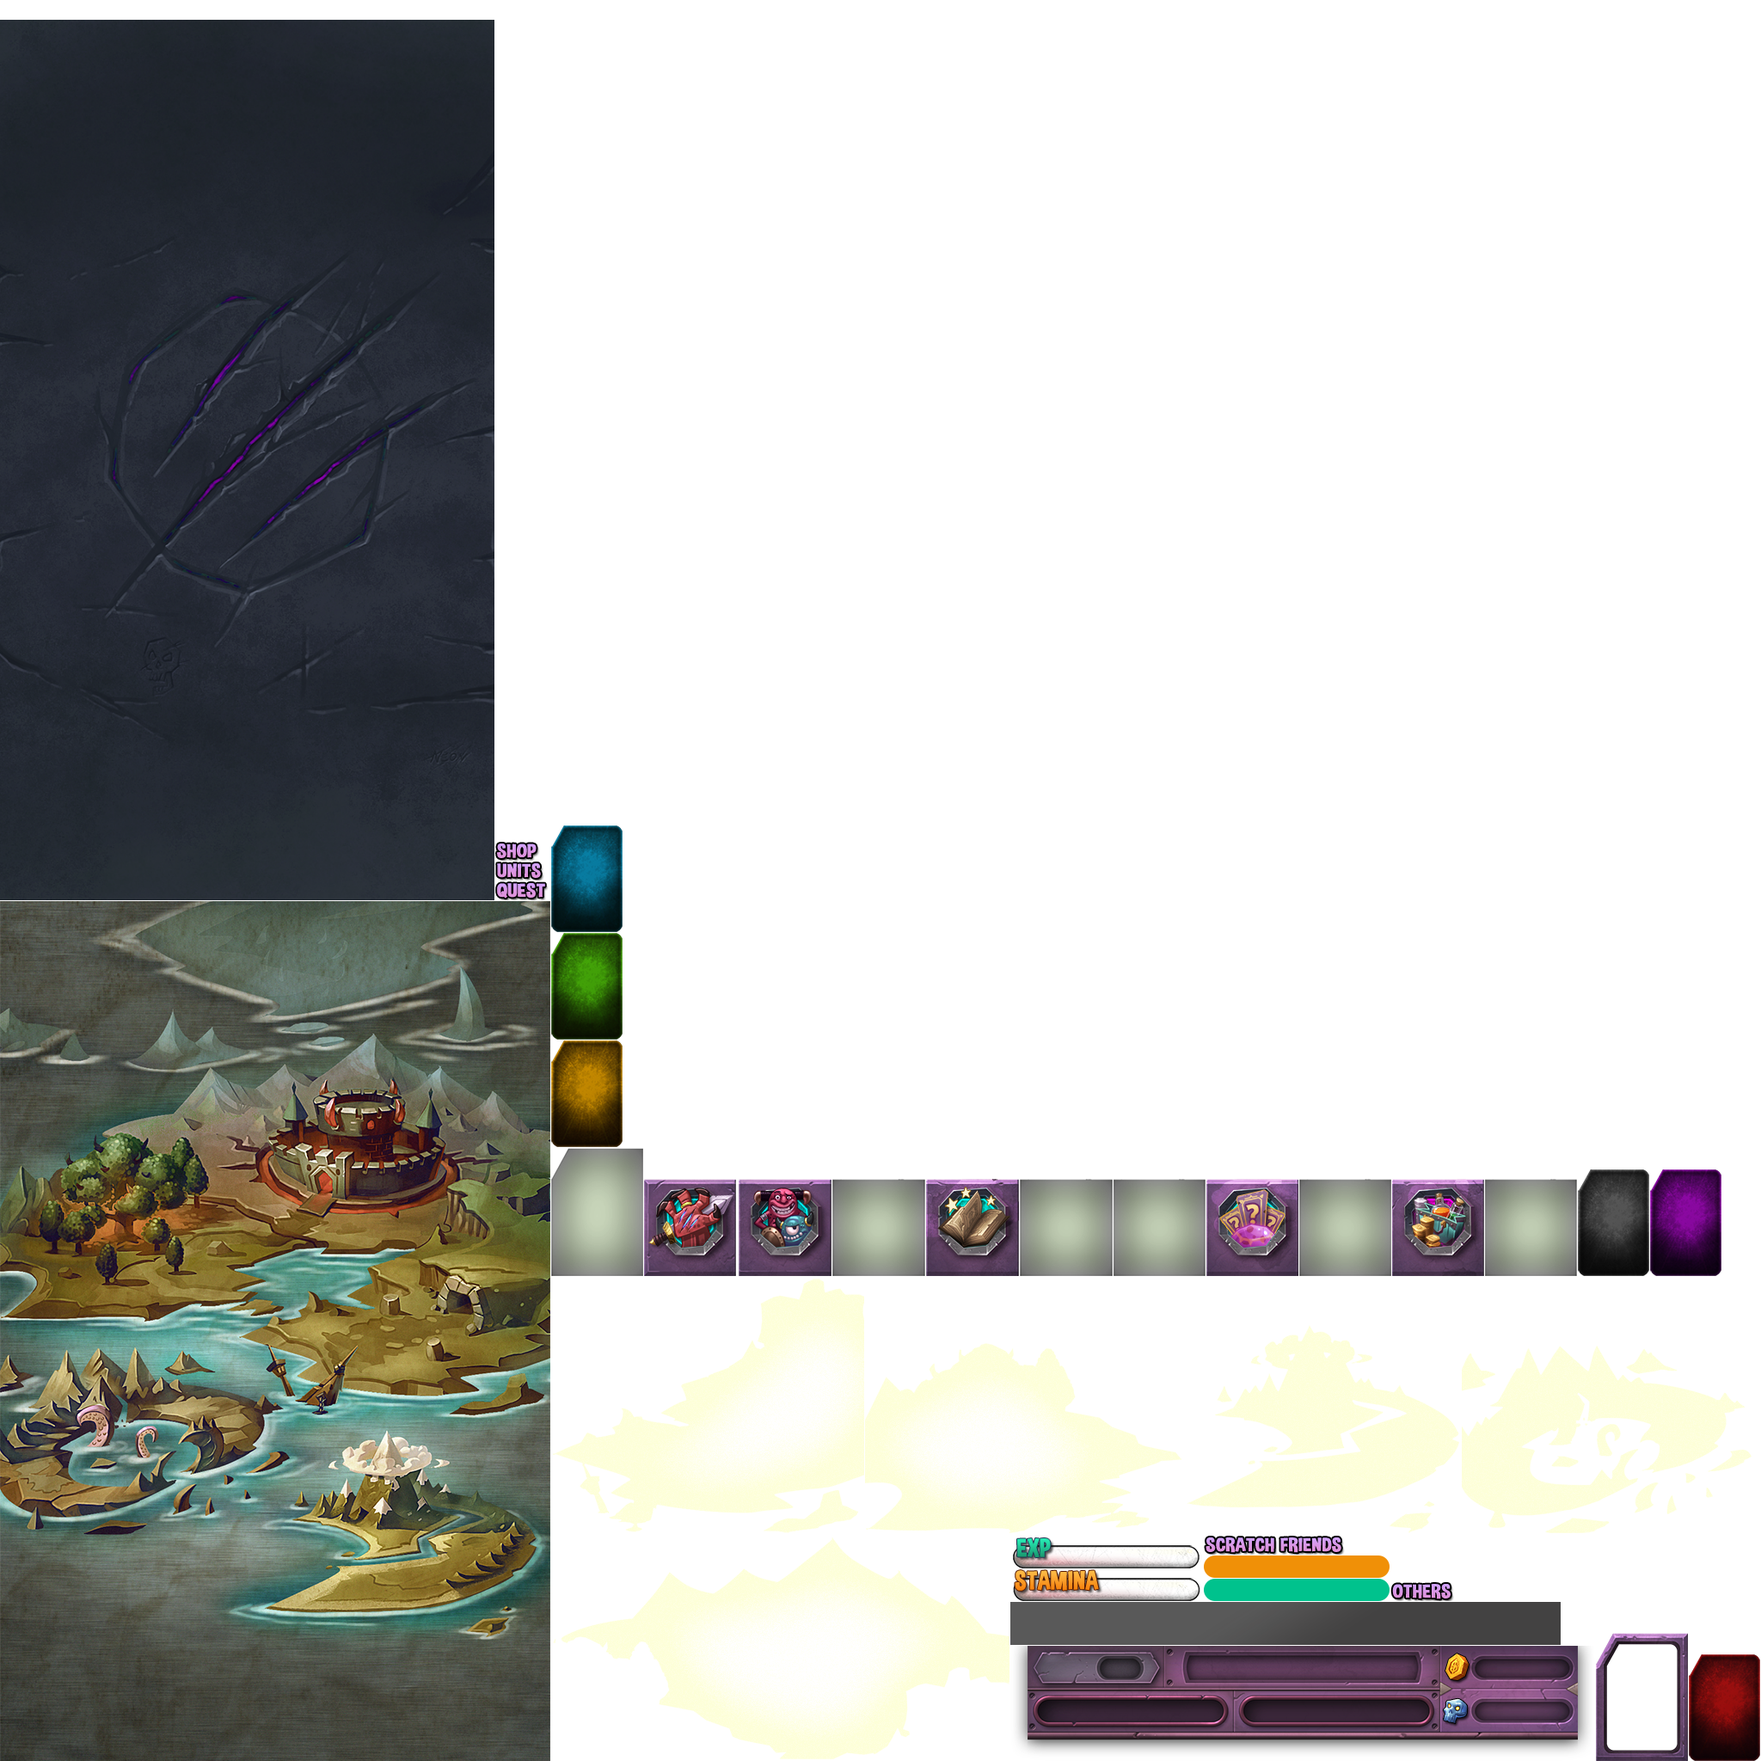
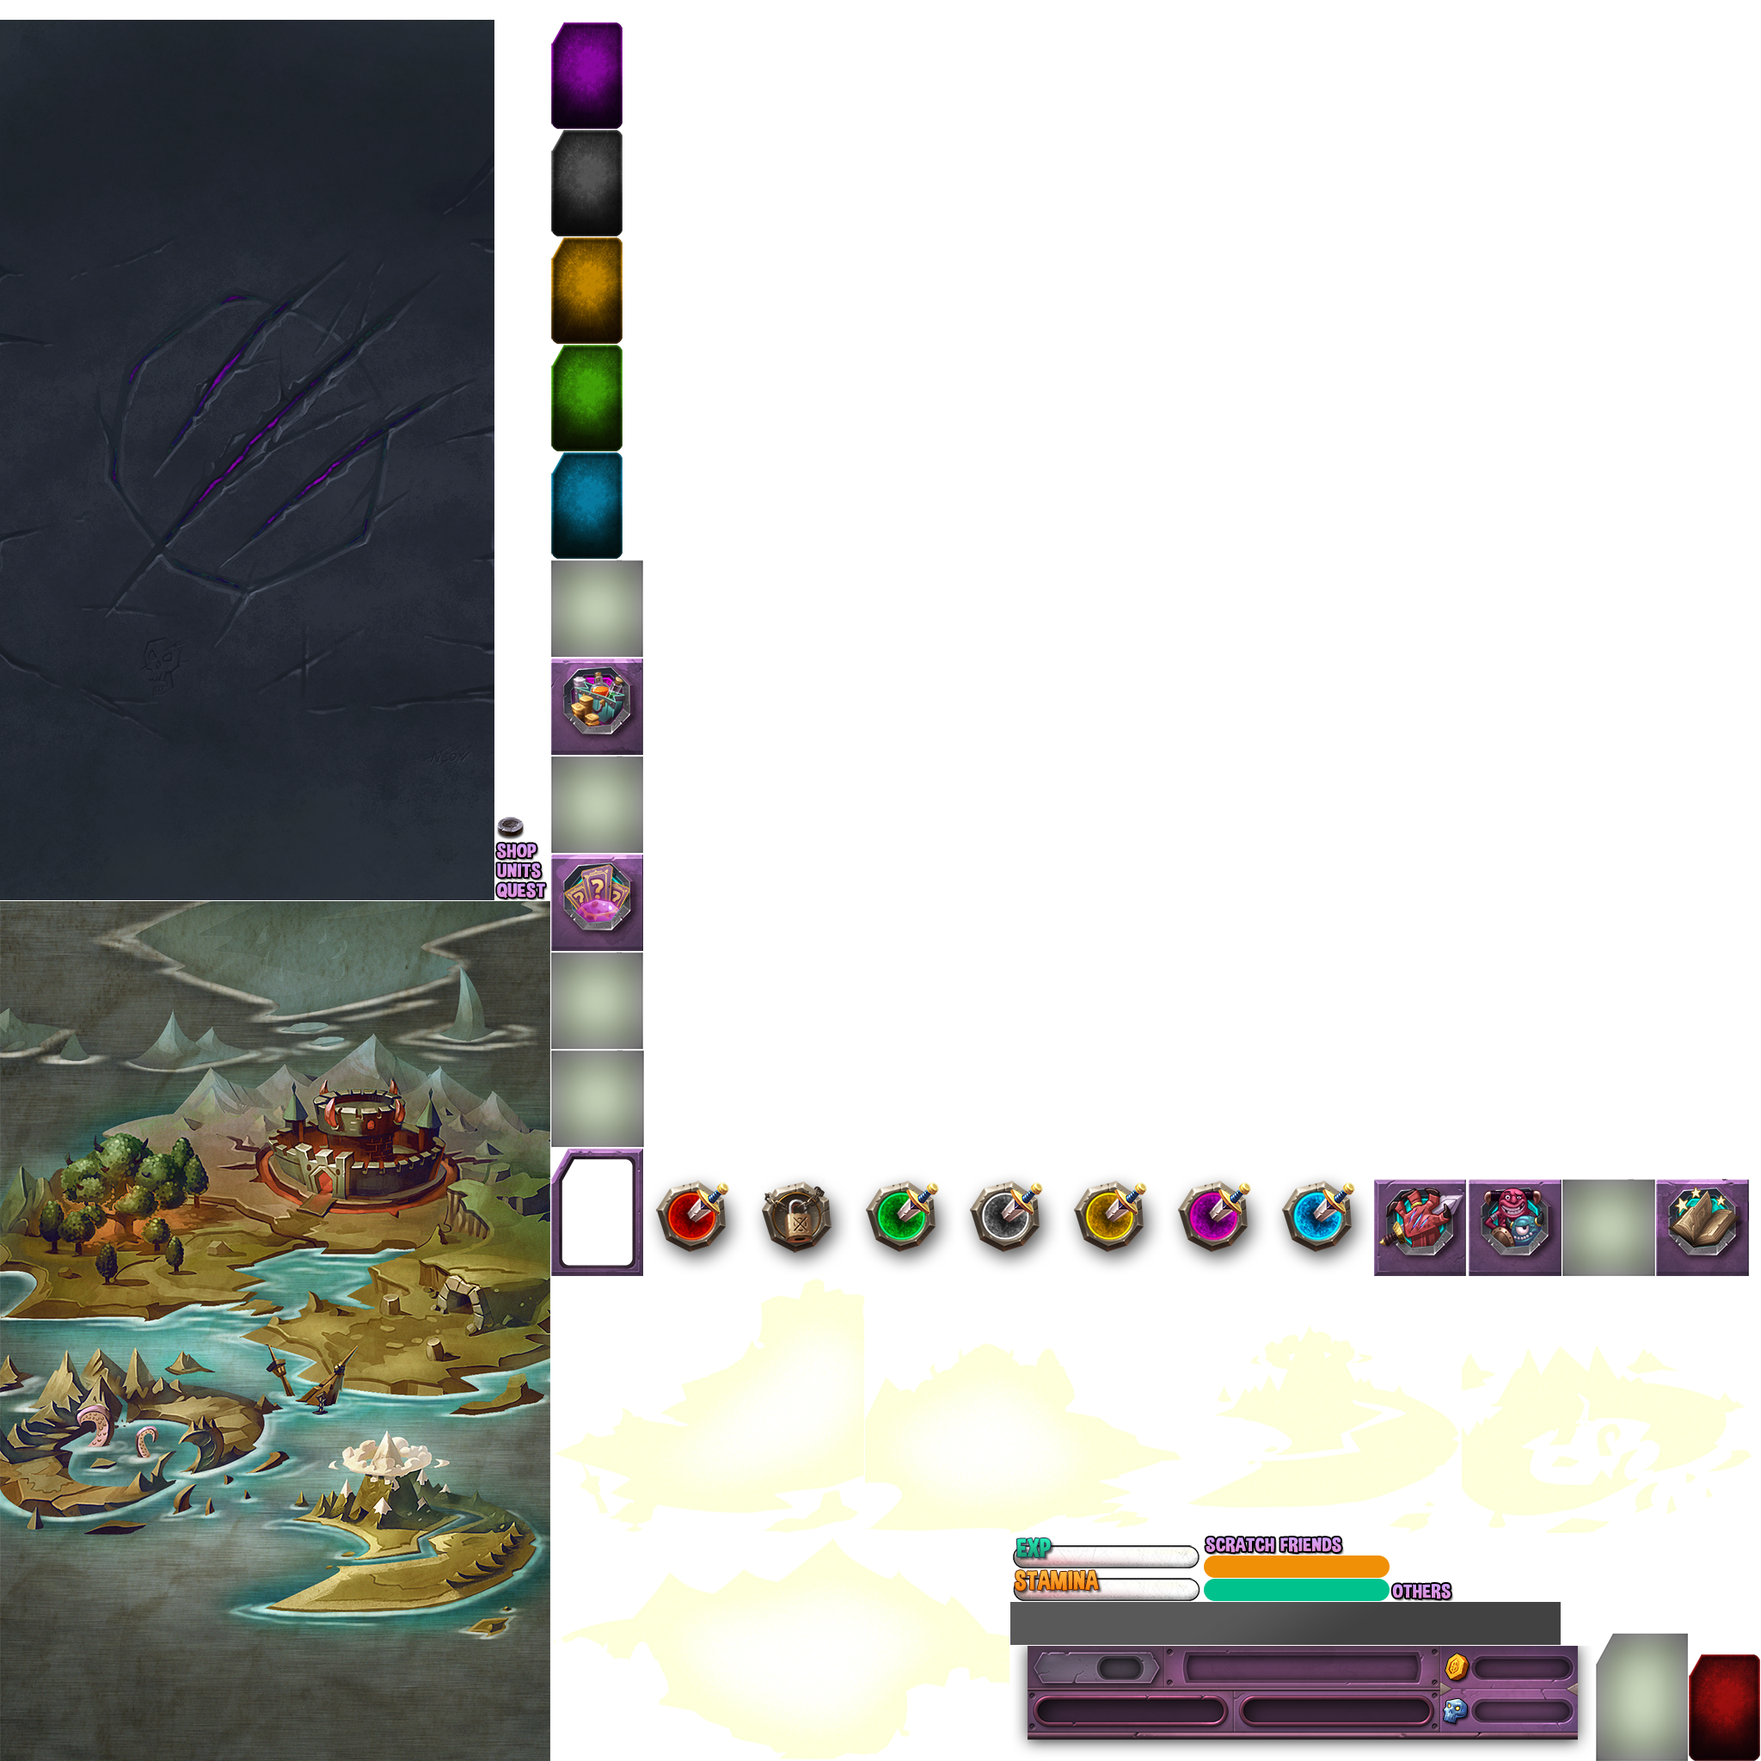
no message

Changed region(s): [[0.2812, 0.0, 1.0, 0.75], [0.9062, 0.9062, 0.9688, 1.0]]

diff --git a/Assets/Scripts/View/UI/QuestSelect/QuestSelectView.cs b/Assets/Scripts/View/UI/QuestSelect/QuestSelectView.cs
@@ -409,27 +409,27 @@ public class QuestSelectView : UIComponentUnity{
 
 	//--------------------------------New---------------------------------------
 
-	private const float STAGE_PAENL_OFFSET_X = 640.0F;
-	private const float PAGE_MARK_OFFSET_X = 40.0F;
-	private UIButton leftPageBtn;
-	private UIButton rightPageBtn;
-
-	private GameObject leftPanel;
-	private GameObject centerPanel;
-	private GameObject rightPanel;
-
-	private GameObject pageMark;
-	private GameObject stageRoot;
-	private int totalPageCount;
+//	private const float STAGE_PAENL_OFFSET_X = 640.0F;
+//	private const float PAGE_MARK_OFFSET_X = 40.0F;
+//	private UIButton leftPageBtn;
+//	private UIButton rightPageBtn;
+//
+//	private GameObject leftPanel;
+//	private GameObject centerPanel;
+//	private GameObject rightPanel;
+//
+//	private GameObject pageMark;
+//	private GameObject stageRoot;
+//	private int totalPageCount;
 
 	private void InitUIElement(){
-		leftPageBtn = FindChild<UIButton>("Button_Page_Left");
-		rightPageBtn = FindChild<UIButton>("Button_Page_Right");
-		stageRoot = transform.FindChild("Quest").gameObject;
-		pageMark = transform.FindChild("PageMark").gameObject;
+//		leftPageBtn = FindChild<UIButton>("Button_Page_Left");
+//		rightPageBtn = FindChild<UIButton>("Button_Page_Right");
+//		stageRoot = transform.FindChild("Quest").gameObject;
+//		pageMark = transform.FindChild("PageMark").gameObject;
 
-		UIEventListener.Get(leftPageBtn.gameObject).onClick = ClickLeftPageBtn;
-		UIEventListener.Get(rightPageBtn.gameObject).onClick = ClickRightPageBtn;
+//		UIEventListener.Get(leftPageBtn.gameObject).onClick = ClickLeftPageBtn;
+//		UIEventListener.Get(rightPageBtn.gameObject).onClick = ClickRightPageBtn;
 	}
 	
 	private TCityInfo cityInfo;
@@ -451,13 +451,14 @@ public class QuestSelectView : UIComponentUnity{
 			return;
 		}
 	
-		List<TStageInfo> accessStageList = GetAccessStageList(cityInfo.Stages);
-		totalPageCount = accessStageList.Count;
-		CurrPageIndex = GetCurrStageIndex(accessStageList);
-		GenerateStagePage(accessStageList);
-		GeneratePageMark(accessStageList);
-		InitQuestRootPos(totalPageCount);
-		EnableLightSprite(true);
+		//List<TStageInfo> accessStageList = GetAccessStageList(cityInfo.Stages);
+		List<TStageInfo> accessStageList = cityInfo.Stages;
+//		totalPageCount = accessStageList.Count;
+//		CurrPageIndex = GetCurrStageIndex(accessStageList);
+		GenerateStages(accessStageList);
+//		GeneratePageMark(accessStageList);
+//		InitQuestRootPos(totalPageCount);
+//		EnableLightSprite(true);
 	}
 
 	/// <summary>
@@ -486,15 +487,15 @@ public class QuestSelectView : UIComponentUnity{
 	/// Generates the stage page.
 	/// </summary>
 	/// <param name="count">Count.</param>
-	private void GenerateStagePage(List<TStageInfo> accessStageList){
+	private void GenerateStages(List<TStageInfo> accessStageList){
 		Debug.Log("CityID is : " + cityInfo.ID) ;
 		background = FindChild<UITexture>("Background");
 		background.mainTexture = Resources.Load("Stage/" + cityInfo.ID) as Texture2D;
 		for (int i = 0; i < accessStageList.Count; i++){
-			GameObject cell = NGUITools.AddChild(stageRoot, StageItemView.Prefab);
-			cell.name = string.Format("Stage_{0}", accessStageList[ i ].StageName);
-			int offsetCount = i - accessStageList.Count/2;
-			cell.transform.localPosition = STAGE_PAENL_OFFSET_X * offsetCount * Vector3.right;
+			GameObject cell = NGUITools.AddChild(this.gameObject, StageItemView.Prefab);
+			cell.name = i.ToString();
+			//int offsetCount = i - accessStageList.Count/2;
+			//cell.transform.localPosition = STAGE_PAENL_OFFSET_X * offsetCount * Vector3.right;
 			StageItemView stageItemView = StageItemView.Inject(cell);
 			stageItemView.Data = accessStageList[ i ];
 		}
@@ -509,18 +510,18 @@ public class QuestSelectView : UIComponentUnity{
 		string sourcePath = "Prefabs/UI/Quest/PageMark";
 		GameObject pageMarkPrefab = Resources.Load(sourcePath) as GameObject;
 		for (int i = 0; i < accessStageList.Count; i++){
-			GameObject pageMarkItem = NGUITools.AddChild(pageMark, pageMarkPrefab);
-			int offsetCount = i - accessStageList.Count/2;
-			pageMarkItem.name = i.ToString();
-			pageMarkItem.transform.localPosition = PAGE_MARK_OFFSET_X * offsetCount * Vector3.right;
-			pageMarkItemList.Add(pageMarkItem);
+//			GameObject pageMarkItem = NGUITools.AddChild(pageMark, pageMarkPrefab);
+//			int offsetCount = i - accessStageList.Count/2;
+//			pageMarkItem.name = i.ToString();
+//			pageMarkItem.transform.localPosition = PAGE_MARK_OFFSET_X * offsetCount * Vector3.right;
+//			pageMarkItemList.Add(pageMarkItem);
 		}
 //		Debug.Log("GeneratePageMark(), pageMarkItemList count is : " + pageMarkItemList.Count);
 	}
 
 	private void InitQuestRootPos(int count){
 		int offsetCount = count / 2 - (currPageIndex - 1);
-		stageRoot.transform.localPosition = STAGE_PAENL_OFFSET_X * offsetCount * Vector3.right;
+//		stageRoot.transform.localPosition = STAGE_PAENL_OFFSET_X * offsetCount * Vector3.right;
 	}
 
 	/// <summary>
@@ -533,7 +534,7 @@ public class QuestSelectView : UIComponentUnity{
 		}
 		set{
 			isStartPage = value;
-			leftPageBtn.gameObject.SetActive(!IsStartPage);
+//			leftPageBtn.gameObject.SetActive(!IsStartPage);
 		}
 	}
 
@@ -547,7 +548,7 @@ public class QuestSelectView : UIComponentUnity{
 		}
 		set{
 			isEndPage = value;
-			rightPageBtn.gameObject.SetActive(!IsEndPage);
+//			rightPageBtn.gameObject.SetActive(!IsEndPage);
 		}
 	}
 	
@@ -565,7 +566,7 @@ public class QuestSelectView : UIComponentUnity{
 			//Set left btn disabled as soon as current page is start page.
 			IsStartPage = (CurrPageIndex == 1);
 			//Set right btn disabled as soon as current page is end page.
-			IsEndPage = (CurrPageIndex == totalPageCount);
+//			IsEndPage = (CurrPageIndex == totalPageCount);
 		}
 	}
 	
@@ -573,8 +574,8 @@ public class QuestSelectView : UIComponentUnity{
 		EnableLightSprite(false);
 		CurrPageIndex --;
 		//float x = questRoot.transform.localPosition.x + STAGE_PAENL_OFFSET_X;
-		float x = (cityInfo.Stages.Count/2 - (currPageIndex - 1)) * STAGE_PAENL_OFFSET_X;
-		iTween.MoveTo(stageRoot, iTween.Hash("x", x, "time", 1.0f, "isLocal", true));
+//		float x = (cityInfo.Stages.Count/2 - (currPageIndex - 1)) * STAGE_PAENL_OFFSET_X;
+//		iTween.MoveTo(stageRoot, iTween.Hash("x", x, "time", 1.0f, "isLocal", true));
 		EnableLightSprite(true);
 	}
 
@@ -582,8 +583,8 @@ public class QuestSelectView : UIComponentUnity{
 		EnableLightSprite(false);
 		CurrPageIndex ++;
 		//float x = questRoot.transform.localPosition.x - STAGE_PAENL_OFFSET_X;
-		float x = (cityInfo.Stages.Count/2 - (currPageIndex - 1)) * STAGE_PAENL_OFFSET_X;
-		iTween.MoveTo(stageRoot, iTween.Hash("x", x, "time", 1.0f, "isLocal", true));
+//		float x = (cityInfo.Stages.Count/2 - (currPageIndex - 1)) * STAGE_PAENL_OFFSET_X;
+//		iTween.MoveTo(stageRoot, iTween.Hash("x", x, "time", 1.0f, "isLocal", true));
 		EnableLightSprite(true);
 	}
 
@@ -620,12 +621,12 @@ public class QuestSelectView : UIComponentUnity{
 
 		List<TStageInfo> accessStageList = new List<TStageInfo> (); 
 		accessStageList.Add (evolveStageInfo.StageInfo);
-		totalPageCount = accessStageList.Count;
+//		totalPageCount = accessStageList.Count;
 		CurrPageIndex = accessStageList.Count;
 		Debug.LogError ("CurrPageIndex : " + CurrPageIndex);
-		GenerateStageItem(accessStageList);
-		GenerateIndex(accessStageList);
-		InitQuestRootPos(totalPageCount);
+//		GenerateStageItem(accessStageList);
+//		GenerateIndex(accessStageList);
+//		InitQuestRootPos(totalPageCount);
 		EnableLightSprite(true);
 	}
 
@@ -633,22 +634,22 @@ public class QuestSelectView : UIComponentUnity{
 		string sourcePath = "Prefabs/UI/Quest/PageMark";
 		GameObject pageMarkPrefab = Resources.Load(sourcePath) as GameObject;
 		for (int i = 0; i < accessStageList.Count; i++){
-			GameObject pageMarkItem = NGUITools.AddChild(pageMark, pageMarkPrefab);
+//			GameObject pageMarkItem = NGUITools.AddChild(pageMark, pageMarkPrefab);
 			int offsetCount = i - accessStageList.Count/2;
-			pageMarkItem.name = i.ToString();
-			pageMarkItem.transform.localPosition = PAGE_MARK_OFFSET_X * offsetCount * Vector3.right;
-			pageMarkItemList.Add(pageMarkItem);
+//			pageMarkItem.name = i.ToString();
+//			pageMarkItem.transform.localPosition = PAGE_MARK_OFFSET_X * offsetCount * Vector3.right;
+//			pageMarkItemList.Add(pageMarkItem);
 		}
 	}
 
 	void GenerateStageItem(List<TStageInfo> accessStageList) {
 			for (int i = 0; i < accessStageList.Count; i++){
-				GameObject cell = NGUITools.AddChild(stageRoot, StageItemView.Prefab);
-				cell.name = string.Format("Stage_{0}", accessStageList[ i ].StageName);
-				int offsetCount = i - accessStageList.Count/2;
-				cell.transform.localPosition = STAGE_PAENL_OFFSET_X * offsetCount * Vector3.right;
-				StageItemView stageItemView = StageItemView.Inject(cell);
-				stageItemView.Data = accessStageList[ i ];
+//				GameObject cell = NGUITools.AddChild(stageRoot, StageItemView.Prefab);
+//				cell.name = string.Format("Stage_{0}", accessStageList[ i ].StageName);
+//				int offsetCount = i - accessStageList.Count/2;
+//				cell.transform.localPosition = STAGE_PAENL_OFFSET_X * offsetCount * Vector3.right;
+//				StageItemView stageItemView = StageItemView.Inject(cell);
+//				stageItemView.Data = accessStageList[ i ];
 			}
 	}
 }

diff --git a/Assets/Scripts/View/UI/QuestSelect/StageItemView.cs b/Assets/Scripts/View/UI/QuestSelect/StageItemView.cs
@@ -2,10 +2,6 @@
 using System.Collections;
 
 public class StageItemView : MonoBehaviour {
-	private const float OFFSET_X = 320;
-	private const float OFFSET_Y = 320;
-	private UITexture mapTex;
-	private UILabel nameLabel;
 
 	public static StageItemView Inject(GameObject view){
 		StageItemView stageItemView = view.GetComponent<StageItemView>();
@@ -24,8 +20,6 @@ public class StageItemView : MonoBehaviour {
 		}
 	}
 
-	public void Awake(){}
-
 	private TStageInfo data;
 	public TStageInfo Data{
 		get{
@@ -37,56 +31,51 @@ public class StageItemView : MonoBehaviour {
 				Debug.LogError("StageItemView, Data is NULL!");
 				return;
 			}
-			ShowMap();
-			ShowName();
-			GenerateQuestInfo();
+			SetIcon();
+			SetPosition();
+			AddEventListener();
+		}
+	}
+	
+	private void SetPosition(){
+		float x = 0f;
+		float y = 0f;
+		if(data.Pos != null){
+			x = data.Pos.x;
+			y = data.Pos.y;
+		}
+		else{
+			Debug.LogError("Stage.Pos is NULL!");
+			//this.gameObject.SetActive(false);
+		}
+		gameObject.transform.localPosition = new Vector3(x, y, 0);
+	}
+
+	private void SetIcon(){
+		UISprite icon = transform.FindChild("Icon/Background").GetComponent<UISprite>();
+		bool isClear = DataCenter.Instance.QuestClearInfo.IsStoryStageClear(data.ID);
+		Debug.Log("StageItemView.SetIcon(), isClear is : " + isClear);
+		Debug.Log("StageItemView.SetIcon(), stageId is : " + data.ID);
+		if(isClear){
+			icon.spriteName = "icon_stage_" + data.ID;
+		}
+		else{
+			icon.spriteName = "icon_stage_lock";
 		}
 	}
 
-	private void ShowMap(){
-		Debug.Log("StageItemView.LoadStageMap(), CityId is : " + data.CityId);
-		string sourcePath = string.Format("Stage/{0}", data.CityId);
-//		Debug.Log("StageItemView.ShowMap(), sourcePath : " + sourcePath);
-		Texture2D tex = Resources.Load(sourcePath) as Texture2D;
-
-		if(mapTex == null){
-//			Debug.LogError("mapTex == null, getting...");
-			mapTex = transform.FindChild("Texture_Map").GetComponent<UITexture>();
-		}
-		mapTex.mainTexture = tex;
+	private void AddEventListener(){
+		if(data == null)
+			UIEventListener.Get(this.gameObject).onClick = null;
+		else
+			UIEventListener.Get(this.gameObject).onClick = ClickItem;
 	}
 
-	private void ShowName(){
-		if(nameLabel == null){
-//			Debug.LogError("nameLabel == null, getting...");
-			nameLabel = transform.FindChild("Label_Name").GetComponent<UILabel>();
-		}
-		nameLabel.text = data.StageName;
-	}
-
-	private void GenerateQuestInfo(){
-		for (int i = 0; i < data.QuestInfo.Count; i++){
-			GameObject cell = NGUITools.AddChild(this.gameObject, QuestItemView.Prefab);
-			cell.name = string.Format("Quest_{0}", data.QuestInfo[ i ].Name);
-
-			if(data.QuestInfo[ i ] == null){
-				Debug.LogError(string.Format("data.QuestInfo[ {0} ] is NULL, return...: ", i));
-				return;
-			}
-
-			if(data.QuestInfo[ i ].Pos != null){
-				float pos_x = data.QuestInfo[ i ].Pos.x - OFFSET_X;
-				float pos_y = data.QuestInfo[ i ].Pos.y - OFFSET_Y;
-				cell.transform.localPosition = new Vector3(pos_x, pos_y, 0);
-			}
-			else{
-				Debug.LogError("QuestInfo.Pos == NULL!!!");
-			}
-
-			QuestItemView questItemView = QuestItemView.Inject(cell);
-			questItemView.Data = data.QuestInfo[ i ];
-			questItemView.stageInfo = Data;
-			questItemView.StageID = data.ID;
-		}
+	private void ClickItem(GameObject item){
+		Debug.Log(string.Format("StageItemView.ClickItem(), Picking Stage...stageId is {0}, Stage name is : {1}", data.ID, data.StageName));
+		//QuestItemView thisQuestItemView = this.GetComponent<QuestItemView>();
+		//UIManager.Instance.ChangeScene(SceneEnum.FriendSelect);//before
+		//MsgCenter.Instance.Invoke(CommandEnum.OnPickQuest, thisQuestItemView);//after
+	
 	}
 }

diff --git a/Assets/Scripts/View/UI/QuestSelect/QuestItemView.cs b/Assets/Scripts/View/UI/QuestSelect/QuestItemView.cs
@@ -21,8 +21,6 @@ public class QuestItemView : MonoBehaviour {
 		if(stageItemView == null) stageItemView = view.AddComponent<QuestItemView>();
 		return stageItemView;
 	}
-	
-	public void Awake(){}
 
 	private uint stageID;
 	public uint StageID{
@@ -55,7 +53,7 @@ public class QuestItemView : MonoBehaviour {
 	
 	private void ShowIcon(){
 		if(bgSpr == null){
-//			Debug.LogError("bgSpr == null, getting...");
+			//Debug.LogError("bgSpr == null, getting...");
 			bgSpr = transform.FindChild("Sprite_Boss_Avatar").GetComponent<UISprite>();
 		}
 		bgSpr.atlas = DataCenter.Instance.GetAvatarAtlas(data.BossID[ 0 ]);
@@ -64,7 +62,7 @@ public class QuestItemView : MonoBehaviour {
 	
 	private void ShowName(){
 		if(nameLabel == null){
-//			Debug.LogError("nameLabel == null, getting...");
+			//Debug.LogError("nameLabel == null, getting...");
 			nameLabel = transform.FindChild("Label_Name").GetComponent<UILabel>();
 		}
 		nameLabel.text = data.Name;
@@ -78,7 +76,7 @@ public class QuestItemView : MonoBehaviour {
 	}
 
 	private void ClickItem(GameObject item){
-//		Debug.Log(string.Format("QuestItemView.ClickItem(), Picking quest...questID is {0}, quest name is : {1}", data.ID, data.Name));
+		//Debug.Log(string.Format("QuestItemView.ClickItem(), Picking quest...questID is {0}, quest name is : {1}", data.ID, data.Name));
 		QuestItemView thisQuestItemView = this.GetComponent<QuestItemView>();
 		UIManager.Instance.ChangeScene(SceneEnum.FriendSelect);//before
 		MsgCenter.Instance.Invoke(CommandEnum.OnPickQuest, thisQuestItemView);//after

diff --git a/Assets/Scripts/View/UI/Common/ConcreteDecortor.cs b/Assets/Scripts/View/UI/Common/ConcreteDecortor.cs
@@ -408,7 +408,7 @@ public class QuestSelectDecorator : DecoratorBase{
 		sceneInfoBar = CreatComponent< SceneInfoComponent >(UIConfig.sceneInfoBarName);
 		sceneInfoBar.SetComponent(decorator);
 
-		QuestSelectController questSelect = CreatComponent< QuestSelectController >(UIConfig.stageSlidePanelName);
+		QuestSelectController questSelect = CreatComponent< QuestSelectController >(UIConfig.stageMapName);
 		questSelect.SetComponent(sceneInfoBar);
 
 		lastDecorator = questSelect;

diff --git a/Assets/Scripts/View/UI/Common/UIConfig.cs b/Assets/Scripts/View/UI/Common/UIConfig.cs
@@ -108,7 +108,7 @@ public class UIConfig
 	public const string friendUnitSortPanelName = "FriendUnitSortPanel";
 	
 	public const string homeWorldMapName = "HomeWorldMap";
-	public const string stageSlidePanelName = "StageSlidePanel";
+	public const string stageMapName = "StageMap";
 
 	public const float playerInfoBox_X = 160f;
 	public const float playerInfoBox_Y = -50f;
